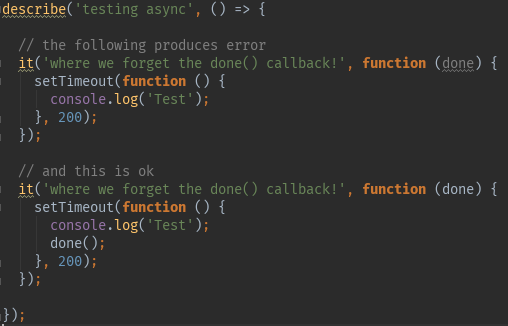
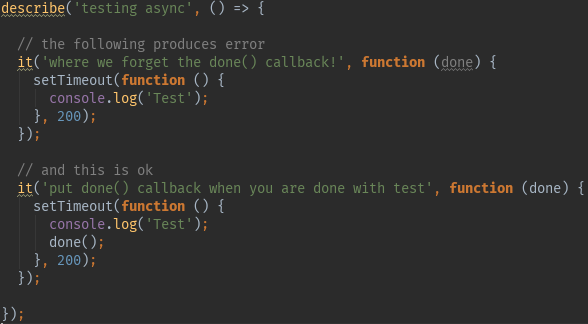
change Mocha async

diff --git a/test/mochaAsync.spec.js b/test/mochaAsync.spec.js
@@ -8,7 +8,7 @@ describe('testing async', () => {
   });
 
   // and this is ok
-  it('where we forget the done() callback!', function (done) {
+  it('put done() callback when you are done with test', function (done) {
     setTimeout(function () {
       console.log('Test');
       done();
